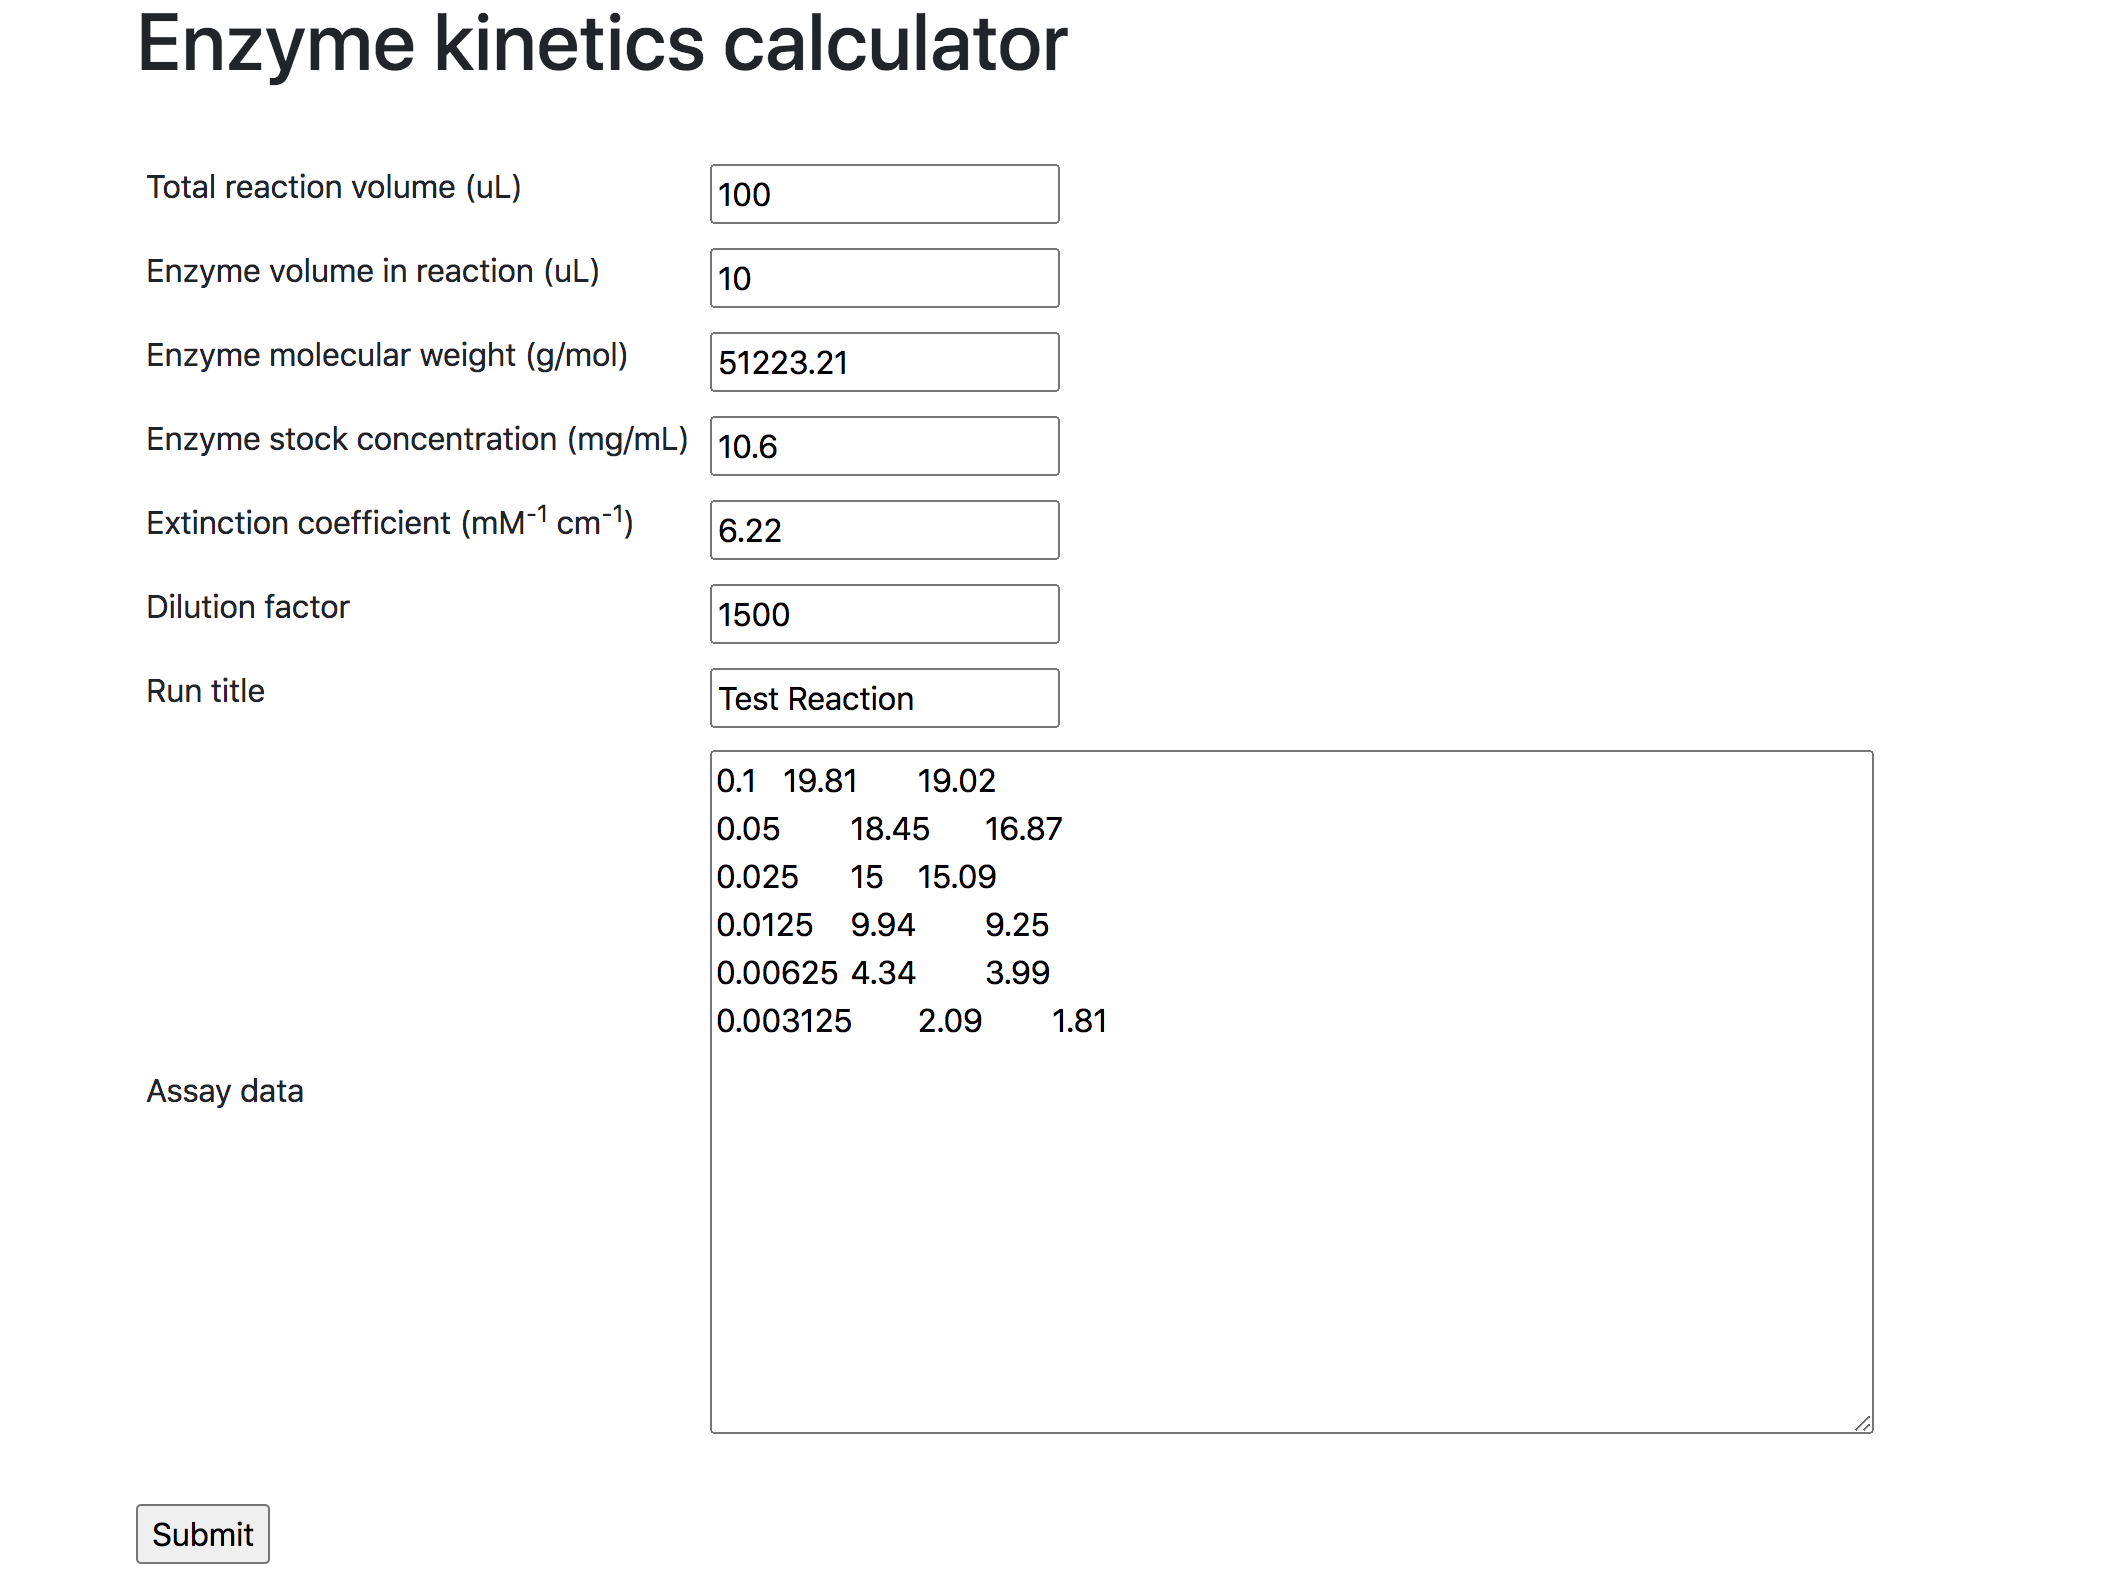
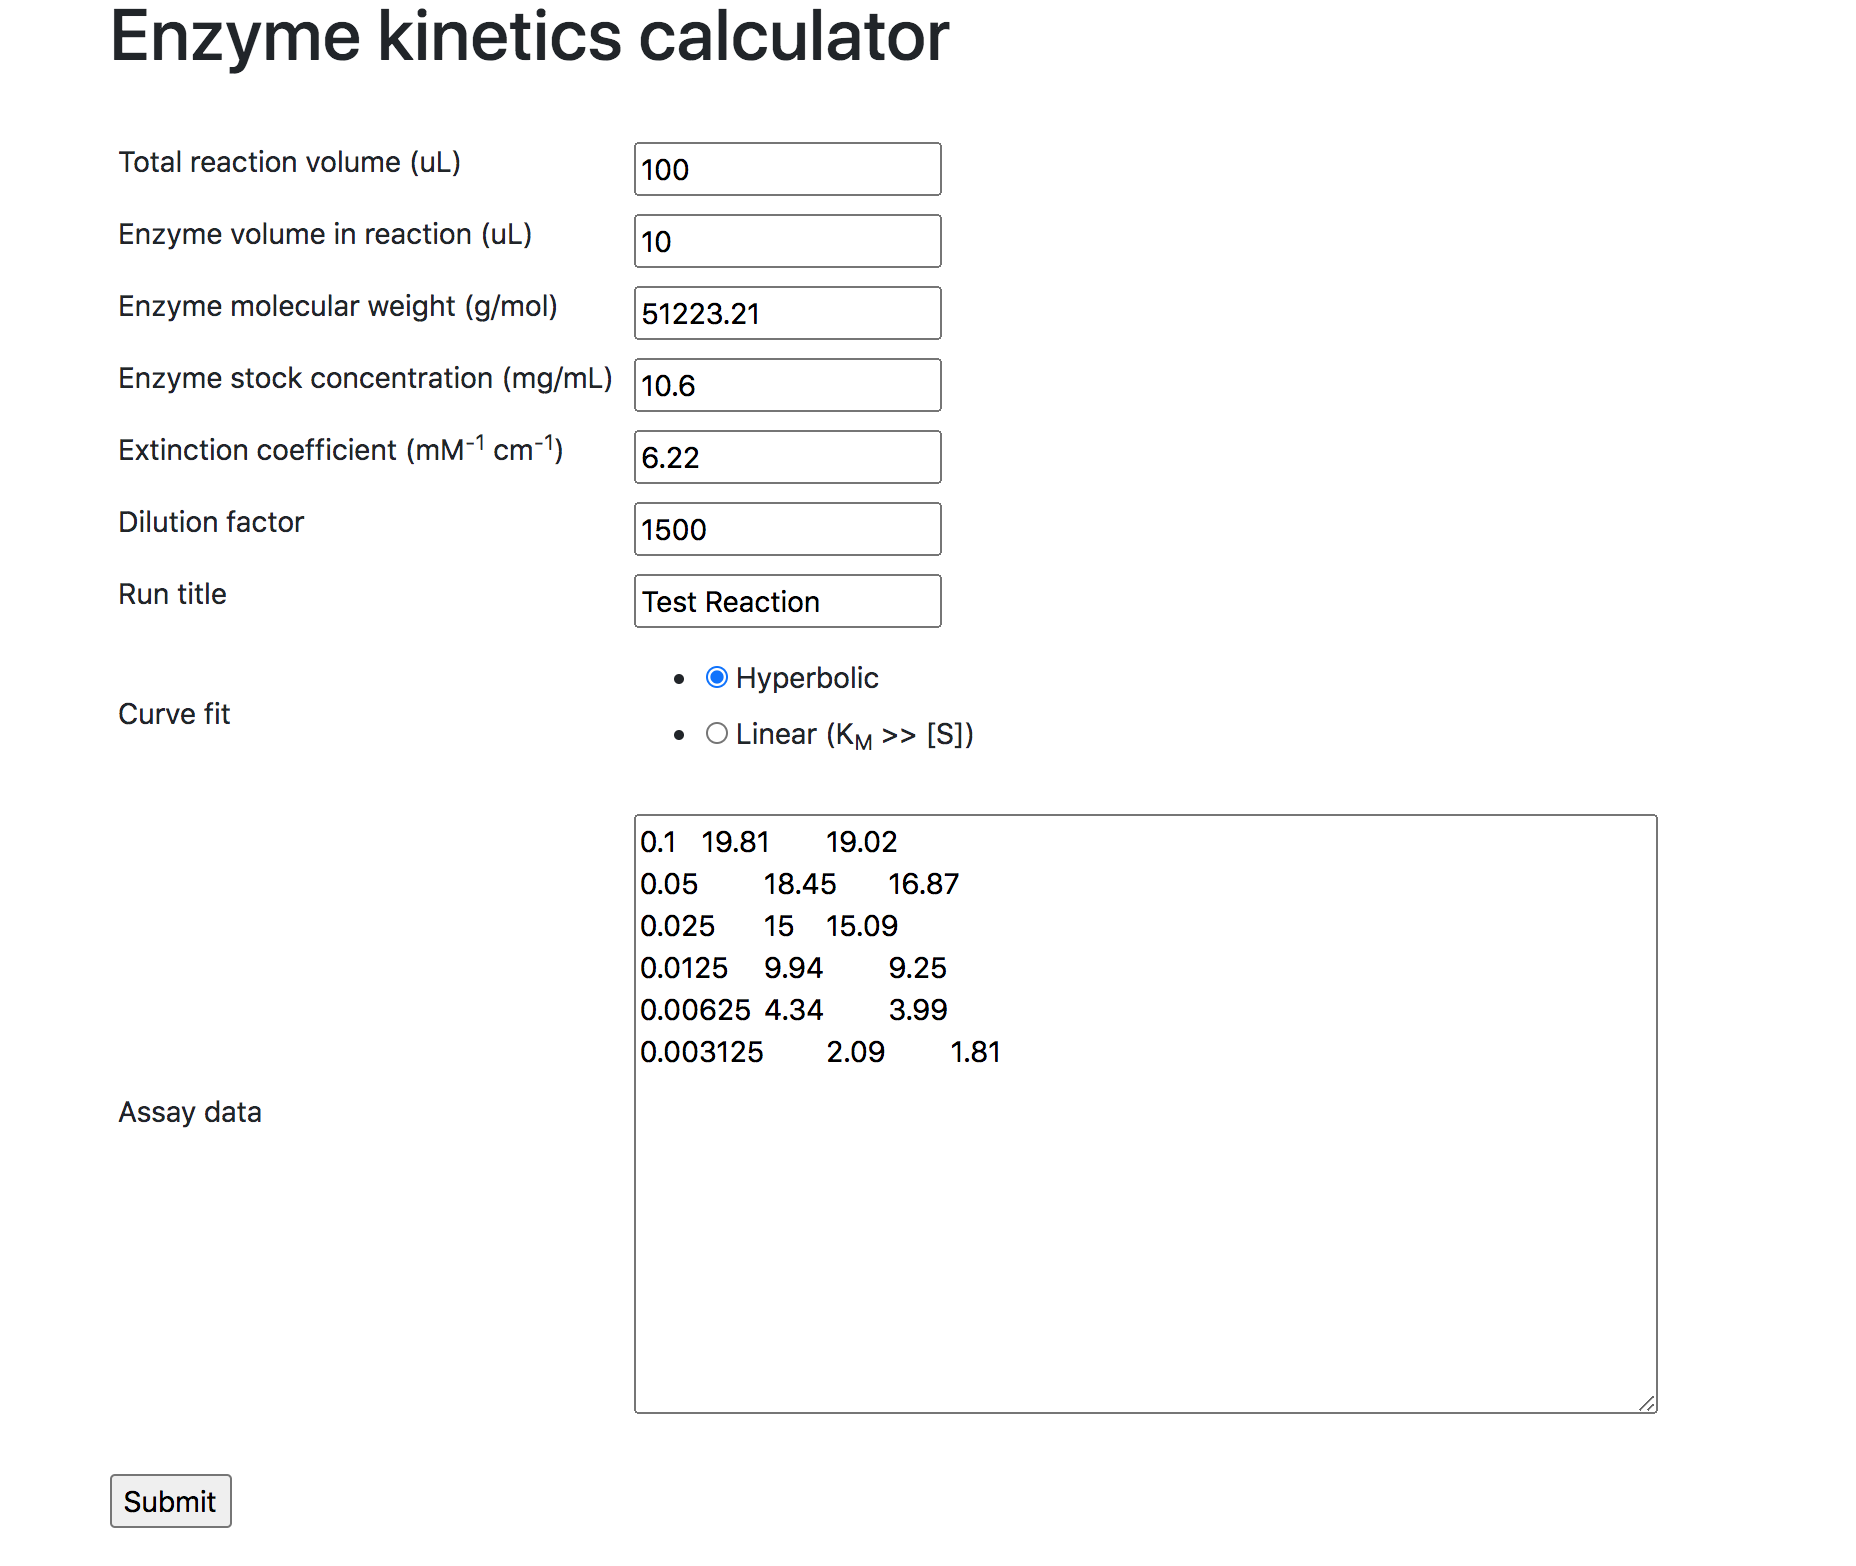
finish adding linear fit

diff --git a/kinetics.py b/kinetics.py
@@ -79,7 +79,7 @@ def lin_velocity(sub, enz, cat_eff):
 
 class kinetics_calc:
 
-    def __init__(self, assay_df, ext, pathlen, enz_rxn_mM, fit):
+    def __init__(self, assay_df, fit, ext, pathlen, enz_rxn_mM):
 
         self.assay_df = assay_df
         self.ext = ext
@@ -113,7 +113,7 @@ class kinetics_calc:
 
         '''fit data to michaelis menten'''
 
-        # coefficients and errors 
+        # coefficients and errors
         # (kcat, km) for hyperbolic
         # kcat/km for linear
 
@@ -128,8 +128,9 @@ class kinetics_calc:
             self.kcat_err, self.km_err = perr[0], perr[1]
 
             # propagate error
+            covar = pcov[0][-1]
             self.cat_eff = self.kcat / self.km
-            self.cat_eff_err = np.absolute(self.cat_eff) * ()
+            self.cat_eff_err = np.absolute(self.cat_eff) * ( (self.kcat_err/self.kcat)**2 + (self.km_err/self.km)**2 + 2*covar/(self.kcat * self.km))
 
         else:
             popt, pcov = curve_fit(lambda sub, cat_eff: lin_velocity(sub, self.enz_rxn_mM, cat_eff),
@@ -137,15 +138,19 @@ class kinetics_calc:
 
             perr = np.sqrt(np.diag(pcov))
 
-    def get_rsq(self, popt):
+            self.cat_eff = popt[0]
+            self.cat_eff_err = perr[0]
+
+
+    def get_rsq(self):
 
         '''get rsq for data to fit curve'''
 
         if self.fit == 'hyperbolic':
-            residuals = self.assay_df['v0_mM_s'] - velocity(self.assay_df['cofa_conc_mM'], self.enz_rxn_mM, popt[0], popt[1])
+            residuals = self.assay_df['v0_mM_s'] - velocity(self.assay_df['cofa_conc_mM'], self.enz_rxn_mM, self.kcat, self.km)
 
         else:
-            residuals = self.assay_df['v0_mM_s'] - lin_velocity(self.assay_df['cofa_conc_mM'], self.enz_rxn_mM, popt[0])
+            residuals = self.assay_df['v0_mM_s'] - lin_velocity(self.assay_df['cofa_conc_mM'], self.enz_rxn_mM, self.cat_eff)
 
         ss_res = np.sum(residuals**2)
         ss_tot = np.sum((self.assay_df['v0_mM_s'] - np.mean(self.assay_df['v0_mM_s']))**2)
@@ -164,6 +169,7 @@ class kinetics_calc:
         if self.fit == 'hyperbolic':
 
             # best fit curve
+            # plot rate on y instead of velocity, divide by enz conc
             plt.plot(x, velocity(x, self.enz_rxn_mM, self.kcat, self.km) / self.enz_rxn_mM, color='C0', lw=2, label='Michaelis Menten')
 
             # km line
@@ -172,12 +178,27 @@ class kinetics_calc:
             # annotate
             annotation = r'$k_{{cat}}$ = {:.3f} $\pm$ {:.2f} s$^{{-1}}$'.format(self.kcat, self.kcat_err)
             annotation += '\n'
-            annotation += r'$K_m$ = {:.3f} $\pm$ {:.2f} mM'.format(self.km, self.km_err)
+            annotation += r'$K_M$ = {:.3f} $\pm$ {:.2f} mM'.format(self.km, self.km_err)
             annotation += '\n'
-            annotation + r'k_{{cat}} / K_m = {:.3f} $\pm$ {:.2f} mM$^{{-1}}$ s$^{{-1}}$'.format(self.cat_eff, self.cat_eff_err)
+
+            # text too long to fit on plot
+            #annotation += r'$k_{{cat}}$ / $K_m$ = {:.3f} $\pm$ {:.2f} s$^{{-1}}$ mM$^{{-1}}$'.format(self.cat_eff, self.cat_eff_err)
+            #annotation += '\n'
             annotation += r'$R^2$ = {:.3f}'.format(self.r_sq)
 
             plt.text(0.47, 0.13, annotation, transform=plt.gca().transAxes, size=14, linespacing=1.6)
+
+        else:
+
+            # plot linear fit
+            plt.plot(x, lin_velocity(x, self.enz_rxn_mM, self.cat_eff) / self.enz_rxn_mM, color='C0', lw=2, label='Linear Michaelis Menten')
+
+            annotation = r'$k_{{cat}} / K_M$ = {:.2f} $\pm$ {:.1f} s$^{{-1}}$ mM$^{{-1}}$'.format(self.cat_eff, self.cat_eff_err)
+            annotation += '\n'
+            annotation += r'$R^2$ = {:.3f}'.format(self.r_sq)
+
+            plt.text(0.37, 0.13, annotation, transform=plt.gca().transAxes, size=12, linespacing=1.6)
+
 
         # scatter experimental data
         plt.scatter(self.assay_df['cofa_conc_mM'], self.assay_df['v0_mM_s'] / self.enz_rxn_mM, color='limegreen', edgecolor='k',
@@ -202,18 +223,18 @@ class kinetics_calc:
 
         output = {}
 
-        # convert to regulat float so yaml is human readable
+        # convert to regular float so yaml is human readable
         # otherwise prints extra
-        output['kcat'] = float(self.kcat)
-        output['kcat_err'] = float(self.kcat_err)
-        output['km'] = float(self.km)
-        output['km_err'] = float(self.km_err)
+        output['kcat'] = float(self.kcat) if self.kcat else None
+        output['kcat_err'] = float(self.kcat_err) if self.kcat_err else None
+        output['km'] = float(self.km) if self.km  else None
+        output['km_err'] = float(self.km_err) if self.km_err else None
         output['cat_eff'] = float(self.cat_eff)
         output['cat_eff_err'] = float(self.cat_eff_err)
         output['r_sq'] = float(self.r_sq)
         output['fit'] = self.fit
 
-        self.assay_df.to_csv('static/assay_df.csv', index=False)
+        self.assay_df[['trial', 'cofa_conc_mM', 'slope_a_s', 'v0_mM_s']].to_csv('static/assay_df.csv', index=False)
 
         return output
 

diff --git a/app.py b/app.py
@@ -21,18 +21,18 @@ class EnzymeAssay(FlaskForm):
     enz_mol_wt = DecimalField('Enzyme molecular weight (g/mol)', validators = [DataRequired()])
     prot_dilution = DecimalField('Dilution factor', validators = [DataRequired()])
     extinct = DecimalField('Extinction coefficient (mM<sup>-1</sup> cm<sup>-1</sup>)', default = 6.22, validators = [DataRequired()])
-    fit = RadioField('Fit type', choices=[('hyper', 'Hyperbolic'), ('lin', 'Linear (K<sub>M</sub> >> [S])')], default='hyper', validators=[DataRequired()])
+    fit = RadioField('Curve fit', choices=[('hyperbolic', 'Hyperbolic'), ('linear', 'Linear (K<sub>M</sub> >> [S])')], default='hyperbolic', validators=[DataRequired()])
     title = StringField('Run title')
     assay_data = TextAreaField('Assay data', render_kw={'rows' : 14, 'cols' : 70}, validators = [DataRequired()])
 
     submit = SubmitField('Submit')
 
-@app.after_request
-def add_header(response):
+# @app.after_request
+# def add_header(response):
 
-    response.headers['X-UA-Compatible'] = 'IE=Edge,chrome=1'
-    response.headers['Cache-Control'] = 'public, max-age=0'
-    return response
+#     response.headers['X-UA-Compatible'] = 'IE=Edge,chrome=1'
+#     response.headers['Cache-Control'] = 'public, max-age=0'
+#     return response
 
 
 @app.route('/', methods = ['GET', 'POST'])
@@ -49,12 +49,13 @@ def home():
         ext = form.extinct.data
         title = form.title.data
         assay = form.assay_data.data
+        fit = form.fit.data
 
         # convert data
         assay_df = make_assay_df(assay)
         enz_dict = make_enz_dict(rxn_vol, enz_vol, conc, mol_wt, dil, ext)
 
-        calc = kinetics_calc(assay_df, **enz_dict)
+        calc = kinetics_calc(assay_df, fit, **enz_dict)
         calc.plot_mm(title)
 
         # save inputs and kinetic params to yaml
